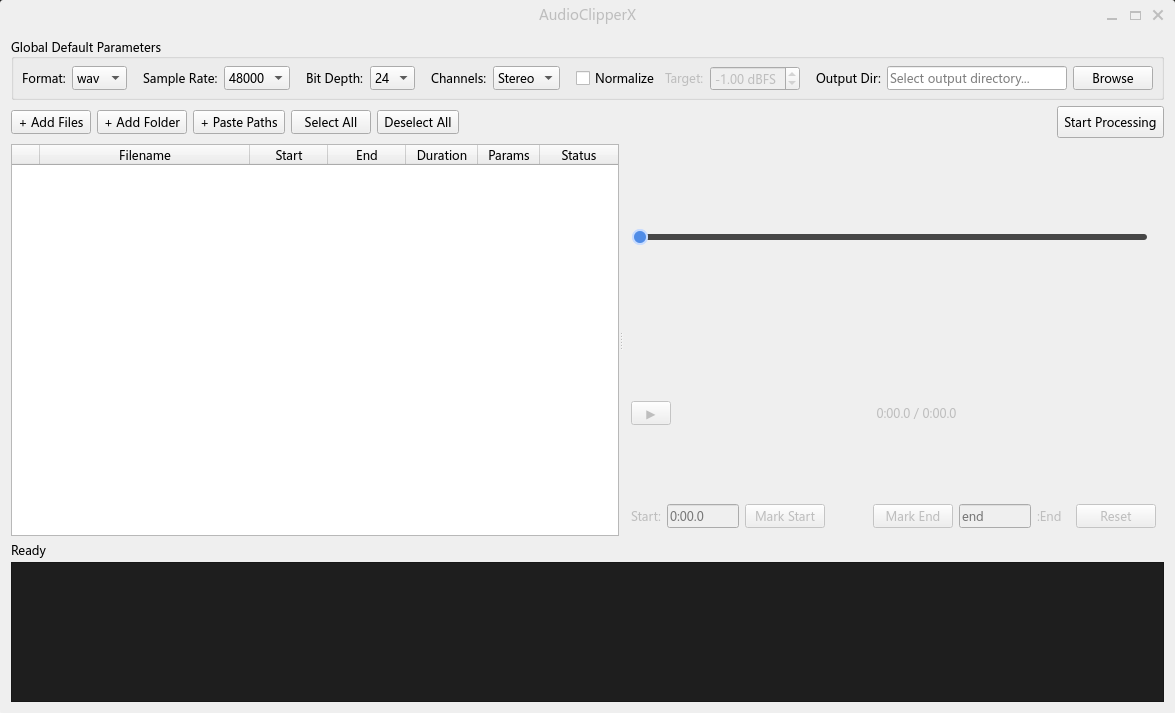
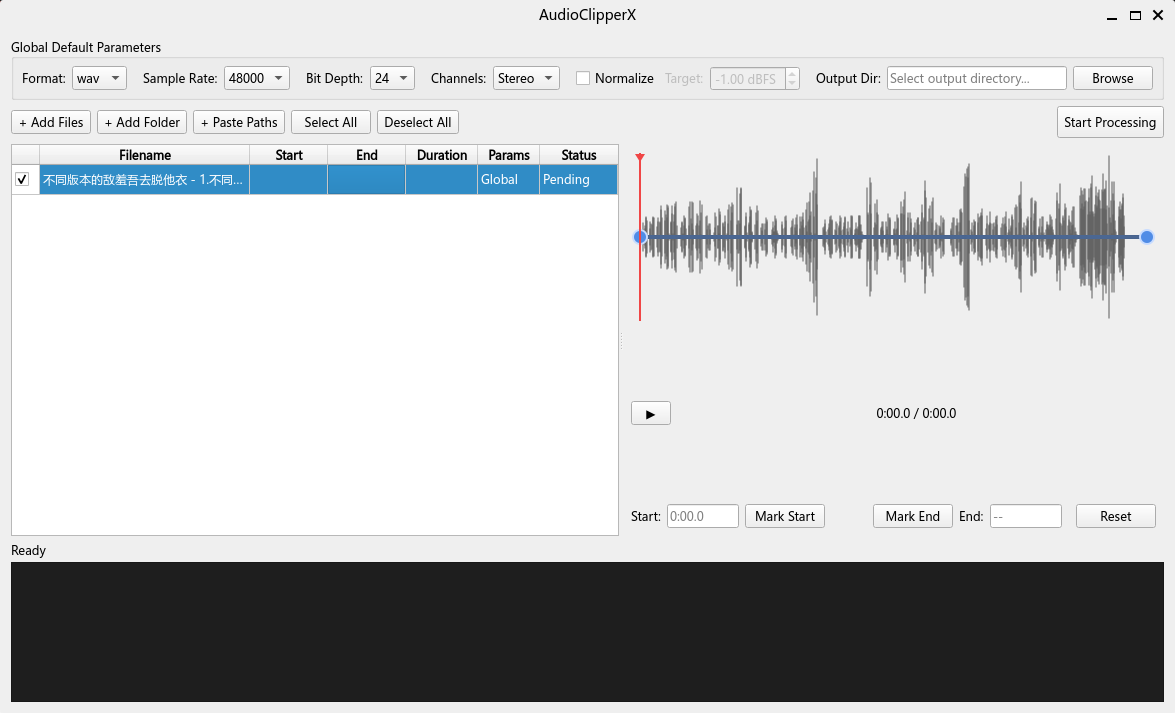
updated readme

diff --git a/README.md b/README.md
@@ -1,6 +1,6 @@
 # AudioClipperX
 
-A Python desktop tool for trimming audio clips, converting formats, and batch-processing audio/video files — all from a clean GUI.
+A Python desktop tool for trimming audio clips, converting formats, and batch-processing audio and video files — all from a clean GUI.
 
 ![AudioClipperX main window](img/UI.png)
 
@@ -8,16 +8,19 @@ A Python desktop tool for trimming audio clips, converting formats, and batch-pr
 
 ## Features
 
-- **Trim audio** — set start and end points by dragging handles on the timeline, clicking "Mark Start / Mark End" while playing, or typing times directly
+- **Waveform timeline** — visual waveform with draggable clip handles and a seekable red playback cursor
+- **Flexible trimming** — drag handles, click Mark Start / Mark End while playing, or type times directly into the Start / End fields
 - **Format conversion** — output to WAV, MP3, FLAC, OGG, AAC, M4A
 - **Sample rate & bit depth** — configurable per file (e.g. 48 kHz / 24-bit for car audio systems)
 - **Channel control** — Mono or Stereo
 - **Volume normalization** — peak-normalize all outputs to a target dBFS level
 - **Video input** — automatically extracts the audio track from MP4, MKV, AVI, MOV, and other video formats
 - **Batch processing** — queue any number of files; each file can override the global defaults
+- **Per-file parameter overrides** — right-click any file to set its own format, sample rate, bit depth, channels, normalize level, and output directory
 - **Parallel processing** — uses all CPU cores via `ProcessPoolExecutor`; the UI stays responsive throughout
 - **Real-time log** — per-file progress and gain details printed as processing runs
-- **Flexible file loading** — Add Files dialog, Add Folder scan, drag-and-drop onto the list, or paste paths manually (useful on WSL2 where directory listing can fail)
+- **Waveform cache** — waveform data is computed once per file and cached in memory; switching back to a file is instant
+- **Flexible file loading** — Add Files dialog, Add Folder scan, drag-and-drop onto the list, or Paste Paths manually (useful on WSL2 where directory listing can fail)
 
 ---
 
@@ -64,104 +67,113 @@ python -m audioclipperx.main
 
 ---
 
-## Usage
+## Interface overview
 
-### Main window overview
+The window is divided into four areas:
 
-```
-┌─ Global Default Parameters ──────────────────────────────────────────────┐
-│  Format  Sample Rate  Bit Depth  Channels  Normalize  Output Dir         │
-├───────────────────────────────────────────────────────────────────────────┤
-│  [+ Add Files] [+ Add Folder] [+ Paste Paths] [Select All] [Deselect All]│
-│                                                    [Start Processing]     │
-├──────────────────────────────┬────────────────────────────────────────────┤
-│  File list                   │  Player                                    │
-│  ☑ Filename  Start  End  … │  ──●══════════════●──────────────────────  │
-│  ☑ file1.mp3                │  ▶   0:01.2 / 0:08.0                       │
-│  ☑ file2.mp4                │  Start: [0:01.2]  [Mark Start]             │
-│  ☐ file3.mp3                │        [Mark End]  [Reset]  End: [0:06.0]  │
-├──────────────────────────────┴────────────────────────────────────────────┤
-│  Processing: 2/5  ████████░░░░░░░                                         │
-│  [10:32:01] Processing: file1.mp3                                         │
-│  [10:32:02] Trimming: 0.00s → 5.00s (duration 5.00s)                     │
-│  [10:32:02] Done ✓ → file1.wav                                            │
-└───────────────────────────────────────────────────────────────────────────┘
-```
+### 1 — Global Default Parameters (top bar)
 
-### Step-by-step
-
-#### 1. Set global output parameters
-
-At the top of the window, configure the defaults that apply to all files:
-
-| Setting | Description |
+| Control | Description |
 |---------|-------------|
-| Format | Output container: `wav`, `mp3`, `flac`, `ogg`, `aac`, `m4a` |
-| Sample Rate | e.g. `48000` Hz |
-| Bit Depth | `16`, `24`, or `32` bit (WAV only) |
-| Channels | `Mono` or `Stereo` |
-| Normalize | Tick to peak-normalize; set the target level in dBFS (default `-1.0`) |
-| Output Dir | Folder where all output files are written |
+| **Format** | Output container: `wav`, `mp3`, `flac`, `ogg`, `aac`, `m4a` |
+| **Sample Rate** | e.g. `44100`, `48000` Hz |
+| **Bit Depth** | `16`, `24`, or `32` bit (WAV only) |
+| **Channels** | `Mono` or `Stereo` |
+| **Normalize** | Tick to enable peak normalization; set the target level in dBFS (default `-1.0`) |
+| **Output Dir** | Folder where all output files are written; click **Browse** to pick one |
 
-#### 2. Add files
+These settings apply to every file unless a file has its own overrides (see §4).
+
+### 2 — File list (left panel)
+
+| Column | Meaning |
+|--------|---------|
+| ☑ | Include / exclude this file from the next processing run |
+| **Filename** | Short name; hover to see the full path |
+| **Start / End** | Clip start and end times set for this file |
+| **Duration** | Length of the trimmed clip |
+| **Params** | `Global` or `Custom` (shown in blue when overrides are active) |
+| **Status** | `Pending` → `Processing` → `Done ✓` / `Failed ✗` |
+
+**Adding files:**
 
 | Button | Behaviour |
 |--------|-----------|
-| **+ Add Files** | Open a file picker to select individual audio/video files |
-| **+ Add Folder** | Scan a folder and add all supported audio/video files found in it |
-| **+ Paste Paths** | Type or paste absolute file paths, one per line — useful on WSL2 |
-| **Drag & drop** | Drop files directly onto the file list |
+| **+ Add Files** | Open a file picker for individual audio/video files |
+| **+ Add Folder** | Scan a folder and add all supported files found in it |
+| **+ Paste Paths** | Type or paste absolute file paths, one per line |
+| **Drag & drop** | Drop files directly onto the list |
 
 Supported input formats: `.mp3` `.wav` `.flac` `.ogg` `.aac` `.m4a` `.wma` `.opus` `.mp4` `.mkv` `.avi` `.mov` `.flv` `.wmv` `.webm` `.m4v` `.ts`
 
-#### 3. Set clip range for each file
+**Right-click menu:**
 
-Click a row in the file list to load it in the player, then:
-
-- **Drag the handles** on the timeline bar to set start and end points
-- **Play** the file and click **Mark Start** / **Mark End** to capture the current playback position
-- **Type** a time directly into the Start or End fields and press Enter
-
-  Accepted time formats:
-
-  | Input | Meaning |
-  |-------|---------|
-  | `90` | 90 seconds |
-  | `90.5` | 90.5 seconds |
-  | `1:30` | 1 min 30 s |
-  | `1:30.5` | 1 min 30.5 s |
-  | `0:01:30` | 1 min 30 s (H:MM:SS) |
-
-- Press **Reset** to restore the range to the full file duration
-
-The file list updates the Start, End, and Duration columns immediately.
-
-#### 4. Per-file parameter overrides
-
-Right-click any row in the file list to open a context menu:
-
-| Menu item | Action |
-|-----------|--------|
-| Remove from List | Remove the entry — the original file is **never** deleted |
-| Edit Parameters… | Override format, sample rate, bit depth, channels, normalize, and output directory for this file only |
+| Item | Action |
+|------|--------|
+| Remove from List | Removes the entry — the original file on disk is **never** deleted |
+| Edit Parameters… | Override format, sample rate, bit depth, channels, normalize, and output directory for this file |
 | Reset to Global Defaults | Discard any per-file overrides |
 | Select All / Deselect All | Toggle the checkbox for every file |
 
-Files with custom parameters are highlighted in blue in the **Params** column.
+### 3 — Player (right panel)
 
-#### 5. Process
+Click any row in the file list to load it in the player.
 
-1. Make sure at least one file is checked (☑) in the list
-2. Confirm **Output Dir** is set in the global settings
-3. Click **Start Processing**
+**Waveform timeline:**
 
-The UI locks during processing. Each file is handled in a separate worker process. Progress and log output appear in real time. A summary dialog shows how many files succeeded or failed, with error details for any failures.
+The large waveform area shows the audio amplitude across the full file duration.
+
+- **Blue handles** (left and right ends of the blue bar) — drag to set the clip start and end points
+- **Red line with triangle** — current playback position; drag it to scrub through the audio. Dragging pauses playback automatically.
+- The blue highlighted region between the handles is the portion that will be exported.
+
+**Playback controls:**
+
+- **▶ / ⏸** — play or pause; playback stops automatically at the clip end and rewinds to the clip start
+- **Time display** — shows current position / total duration (e.g. `0:05.3 / 3:42.0`)
+
+**Clip range controls:**
+
+| Control | Action |
+|---------|--------|
+| **Start** field | Type a time and press Enter to set the clip start |
+| **Mark Start** | Capture the current playback position as the clip start |
+| **Mark End** | Capture the current playback position as the clip end |
+| **End** field | Type a time and press Enter to set the clip end |
+| **Reset** | Restore the range to the full file duration |
+
+Accepted time formats in the Start / End fields:
+
+| Input | Meaning |
+|-------|---------|
+| `90` | 90 seconds |
+| `90.5` | 90.5 seconds |
+| `1:30` | 1 min 30 s |
+| `1:30.5` | 1 min 30.5 s |
+| `0:01:30` | 1 min 30 s (H:MM:SS) |
+
+### 4 — Log panel (bottom)
+
+Displays real-time progress messages and per-file results as processing runs. The progress bar tracks how many files have completed out of the total queued.
 
 ---
 
-## Example: car lock sound
+## Workflow
 
-The Encore custom lock sound requires:
+1. Set the global output parameters in the top bar (format, sample rate, bit depth, output directory, etc.)
+2. Add files via **+ Add Files**, **+ Add Folder**, **+ Paste Paths**, or drag-and-drop
+3. Click each file in the list to load it in the player; drag the blue handles or use Mark Start / Mark End to set the clip range
+4. (Optional) right-click any file to override its parameters individually
+5. Make sure at least one file is checked (☑) and an output directory is set
+6. Click **Start Processing**
+
+The UI locks during processing. Each file runs in a separate worker process. A summary dialog appears when all files finish, showing how many succeeded or failed (with error details for any failures).
+
+---
+
+## Example: car lock sound (BYD Encore)
+
+The custom lock sound for this vehicle requires:
 
 | Requirement | Value |
 |-------------|-------|
@@ -170,13 +182,15 @@ The Encore custom lock sound requires:
 | Bit depth | 24 bit |
 | Max duration | 5 seconds |
 
-Set these in the Global Default Parameters panel, trim each clip to under 5 seconds using the player, enable **Normalize** if needed, then click **Start Processing**.
+Set Format to `wav`, Sample Rate to `48000`, Bit Depth to `24` in the Global Default Parameters. Load your audio files, trim each clip to under 5 seconds using the player, enable **Normalize** if desired, then click **Start Processing**.
 
 ---
 
 ## Notes on WSL2
 
-Running under WSL2 with files on a Windows drive (`/mnt/c/`, `/mnt/e/`, …) can cause intermittent directory I/O errors. If **+ Add Folder** fails, use **+ Paste Paths** and paste the full paths manually.
+Running under WSL2 with files on a Windows drive (`/mnt/c/`, `/mnt/e/`, …) can cause intermittent directory I/O errors. If **+ Add Folder** fails, use **+ Paste Paths** and paste the full paths manually — this bypasses the system directory listing entirely.
+
+Chinese (CJK) filenames are supported. The app loads the Microsoft YaHei font (`msyh.ttc`) from the Windows font directory automatically when running under WSL2.
 
 ---
 
@@ -185,21 +199,23 @@ Running under WSL2 with files on a Windows drive (`/mnt/c/`, `/mnt/e/`, …) can
 ```
 AudioClipperX/
 ├── audioclipperx/
-│   ├── main.py          # Entry point; CJK font setup for Chinese filenames
-│   ├── models.py        # Data classes (FileEntry, FileParams, AudioTask, …)
-│   ├── processor.py     # Core audio processing (runs in subprocess workers)
-│   ├── worker.py        # QThread wrapper around ProcessPoolExecutor
+│   ├── main.py              # Entry point; CJK font setup
+│   ├── models.py            # Data classes (FileEntry, FileParams, AudioTask, …)
+│   ├── processor.py         # Core audio processing (runs in subprocess workers)
+│   ├── worker.py            # QThread wrapper around ProcessPoolExecutor
 │   └── ui/
-│       ├── main_window.py
-│       ├── file_list.py
-│       ├── player_widget.py
-│       ├── range_slider.py
+│       ├── main_window.py   # Top-level window
+│       ├── file_list.py     # File table with checkbox, drag-drop, right-click menu
+│       ├── player_widget.py # Audio player with waveform loader and clip controls
+│       ├── range_slider.py  # Custom waveform timeline widget
 │       ├── settings_panel.py
 │       ├── params_dialog.py
 │       └── log_panel.py
+├── img/
+│   └── UI.png
 ├── data/
-│   ├── input/           # Source files (git-ignored)
-│   └── output/          # Processed files (git-ignored)
+│   ├── input/               # Source files (git-ignored)
+│   └── output/              # Processed files (git-ignored)
 ├── environment.yml
 └── setup.py
 ```
@@ -208,4 +224,4 @@ AudioClipperX/
 
 ## License
 
-[Apache-2.0 license](./LICENSE)
+[Apache-2.0](./LICENSE)
